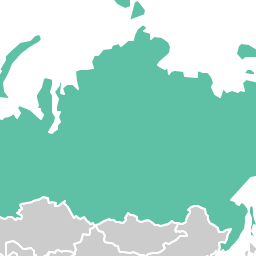
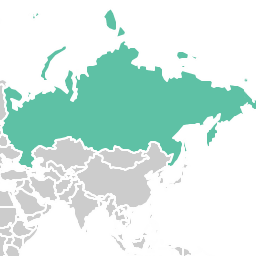
#14565 - update RUS

diff --git a/public/cache_thumbs.js b/public/cache_thumbs.js
@@ -12,7 +12,7 @@ $( function () {
       ],
       center: [ 0, 20 ],
       zoom: 2,
-      zoomMin: 2,
+      zoomMin: 0,
       mode: 'static',
       shapeStyle: {
         height: 0,

diff --git a/app/controllers/countries_controller.rb b/app/controllers/countries_controller.rb
@@ -13,6 +13,7 @@ class CountriesController < ApplicationController
 
   def cache_thumbs
     @map_countries = Country.select( 'id,iso3_code' ) 
+    @map_countries_count = Country.count
     render
   end
 
